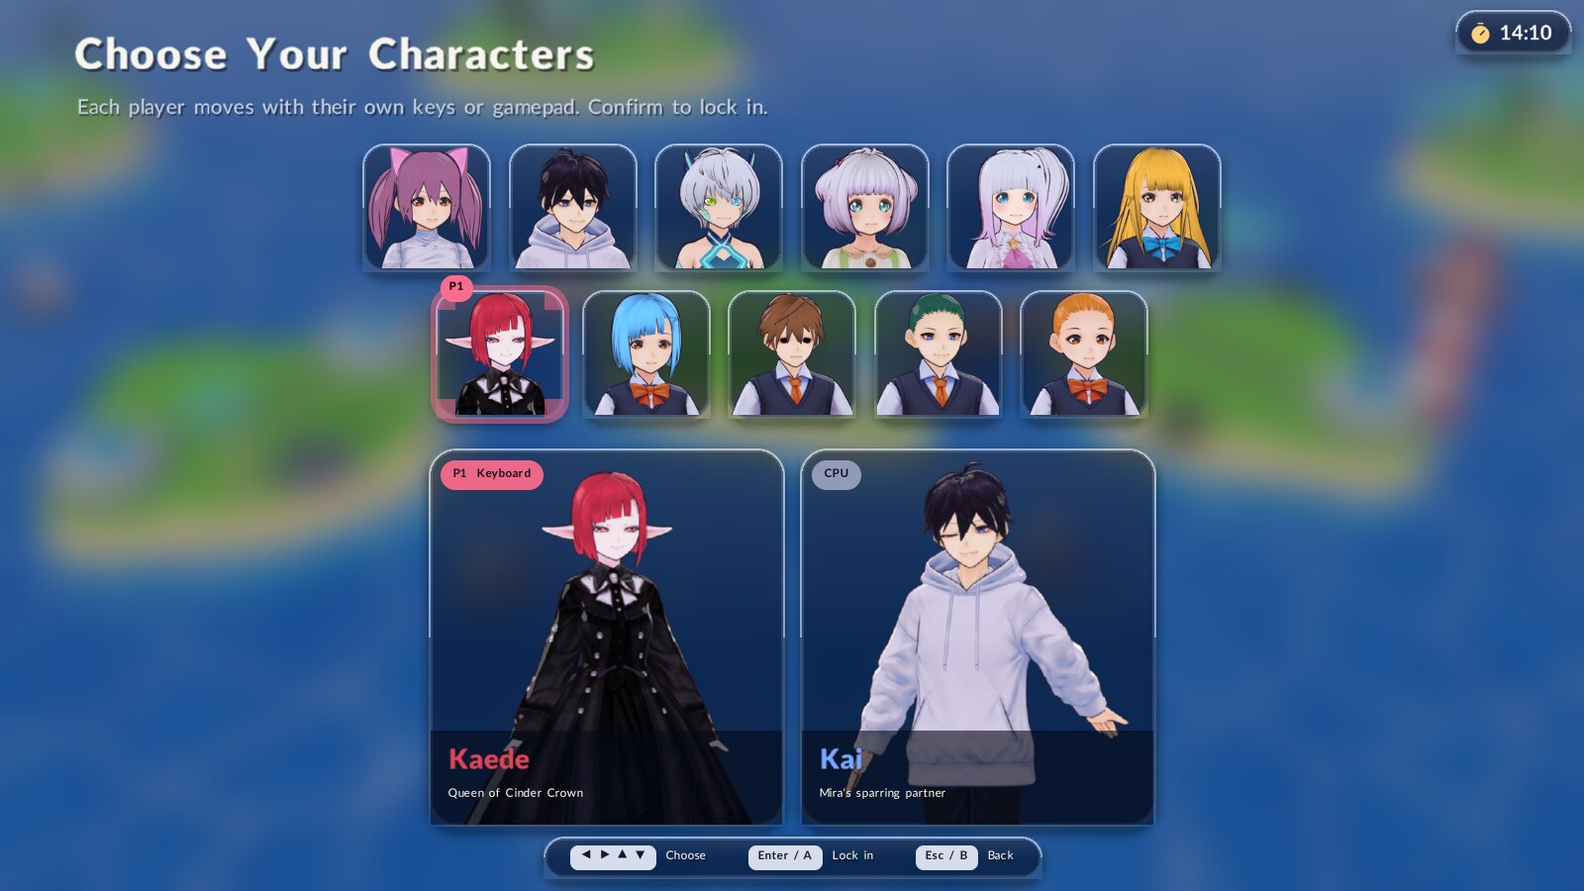
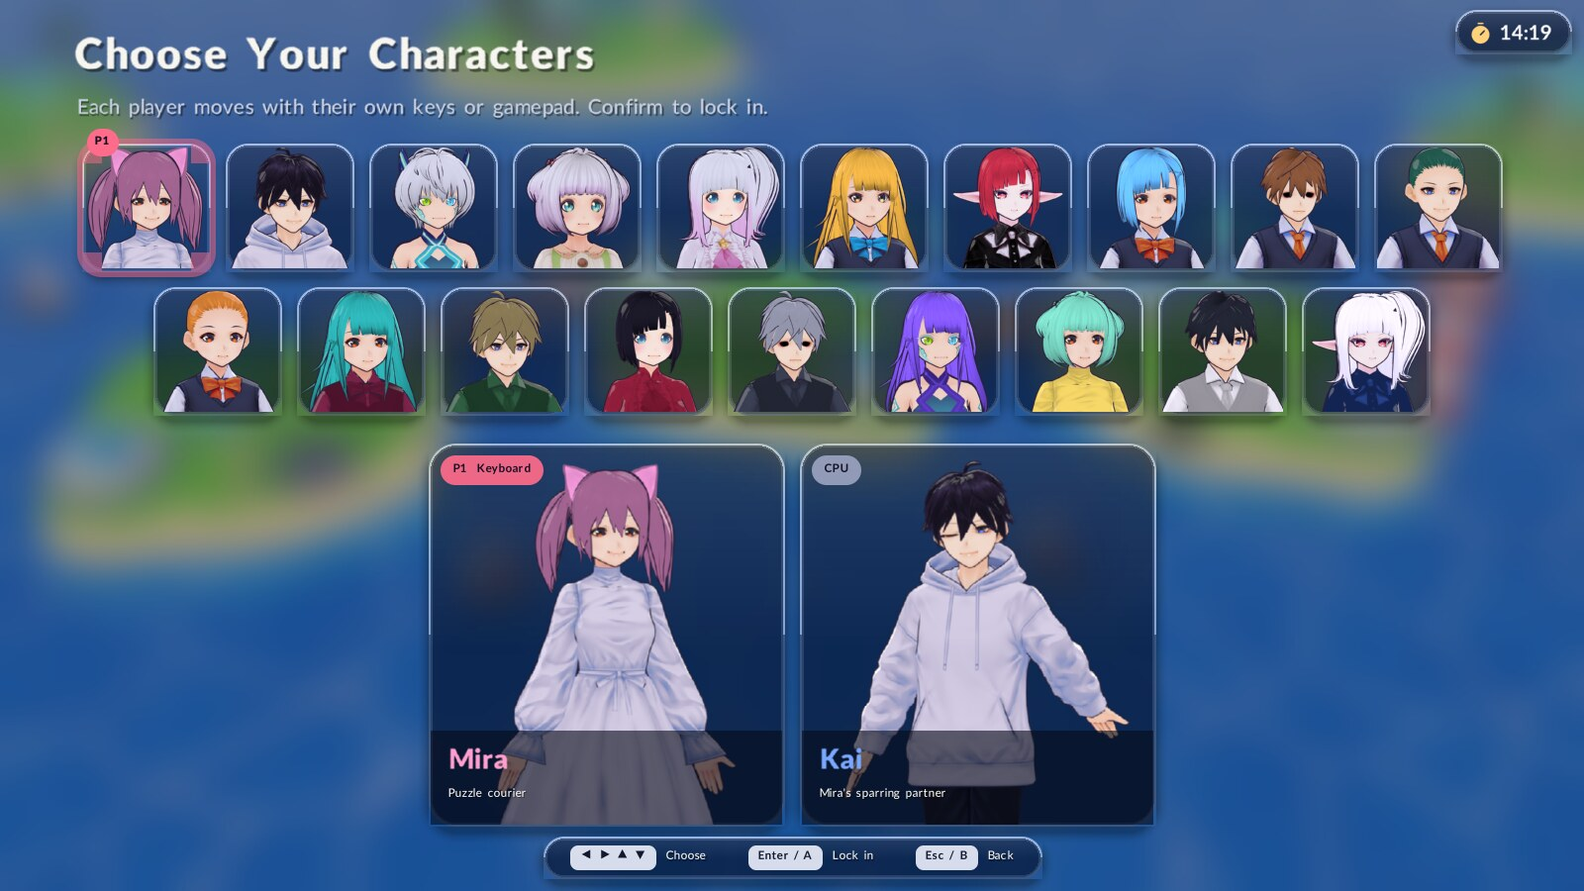
Wider cast, a death and a return, macOS runner
- Eight new characters built from the CC0 VRoid parts: hairstyles transplanted between
  models (the donor skeleton follows the new head), new hair and outfit colors
- Finale rewritten: Kai pushes Mira clear of the overflowing Commons and is swallowed
  (new scene w4_fall); everyone plays through the night until Sena's last push brings him back
- Character select lays a larger cast out in two rows; --scene ID opens a scene directly
- CI: macos-latest (macos-14 is not available on this account)

Changed region(s): [[0.0312, 0.1244, 0.9688, 0.9333]]

diff --git a/crates/purtris-client/src/cast.rs b/crates/purtris-client/src/cast.rs
@@ -23,6 +23,14 @@ pub const CAST: &[Member] = &[
     Member { id: "ren", name: "Ren", title: "Arcade regular", bio: "Builds shrines out of Panel garbage. Calm until the stack reaches row eleven.", style: 3, color: 0xFFC0_8A5C },
     Member { id: "taro", name: "Taro", title: "Arcade regular", bio: "Practises Capsule on the night train home. Has cleared level 20 twice, once awake.", style: 2, color: 0xFF4F_B48C },
     Member { id: "emi", name: "Emi", title: "Arcade regular", bio: "Chains first, asks questions later.", style: 1, color: 0xFFFF_A64C },
+    Member { id: "aoi", name: "Aoi", title: "Night nurse of Clinic Moon", bio: "Yuki's assistant. Counts sheep for the patients so they don't have to.", style: 2, color: 0xFF2F_B7A8 },
+    Member { id: "haru", name: "Haru", title: "Ferryman of Quad Reef", bio: "Rows the ferry between the reef's islands. Has never once tilted a block.", style: 0, color: 0xFFD8_C07A },
+    Member { id: "mei", name: "Mei", title: "Fortune teller of the Bazaar", bio: "Reads your future in the next queue. It is always an S-piece.", style: 3, color: 0xFFC0_3050 },
+    Member { id: "toma", name: "Toma", title: "Archivist of Cinder Crown", bio: "Keeps the records of every Commons Cup. Won't talk about the last one.", style: 2, color: 0xFFC8_D0E0 },
+    Member { id: "luna", name: "Luna", title: "Moon courier", bio: "Mira's rival in deliveries. Faster, rounder, and much louder about it.", style: 1, color: 0xFF8A_5CF0 },
+    Member { id: "kiko", name: "Kiko", title: "Beekeeper of Bloom Valley", bio: "Hana's best friend. Talks to bees, which is still more normal than talking to blobs.", style: 1, color: 0xFF7F_E0B8 },
+    Member { id: "jun", name: "Jun", title: "Arcade champion", bio: "Top of every leaderboard until Sora showed up. Hasn't slept since.", style: 0, color: 0xFF9A_A4B8 },
+    Member { id: "saki", name: "Saki", title: "Kaede's apprentice", bio: "Practises chains with the Queen every night. Secretly better at them.", style: 1, color: 0xFFB4_A8F0 },
 ];
 
 pub fn get(id: &str) -> &'static Member {
@@ -404,6 +412,7 @@ pub const SCENES: &[Scene] = &[
             l!("kaede", "sad", "One request. Don't beat me like a villain. Play me like she would have. Just once, I want that seat to answer."),
             l!("mira", "sad", "I don't know if I can. She was so fast. She hummed while she played. Off key, every single time."),
             l!("kai", "normal", "You can. You've played like her this whole trip. That's why I kept slowing you down. It scared me how much."),
+            l!("kai", "sad", "And if a board ever tops out on you again, I won't just stand there. I'll do what she did. ...Ignore me. Nerves."),
             l!("mira", "smile", "Okay. One delivery, from Sena, to Kaede. Handle with care. Contents fragile."),
             l!("kaede", "smug", "I am not fragile. I am a queen. I am... slightly fragile."),
             l!("mira", "delighted", "Hear that? The board's humming. Kaede, it hasn't hummed for you in years, has it?"),
@@ -421,13 +430,36 @@ pub const SCENES: &[Scene] = &[
             l!("mira", "sad", "I forgive you. And I'm sorry I yelled. I came to beat a villain and found someone who misses her as much as I do."),
             l!("kaede", "smile", "Then I forgive you for yelling. It was very loud. Queens are rarely yelled at. It was... refreshing."),
             l!("kaede", "normal", "I will reopen the Commons. On one condition: nobody plays alone on it. Not ever again."),
-            l!("kai", "normal", "Small problem. Every style on one board means every champion, and they're spread across five worlds."),
-            l!("nami", "smile", "Ahoy. I left the lighthouse lit, but I think my parents would rather I was here. Every style at once, they always said."),
+            l!("kai", "normal", "Small problem. \"Nobody alone\" means every champion, and they live in four other worlds. One of them charges for talking."),
+            l!("rin", "smug", "Reopening fee waived! Today only! But you mentioned me, Kai, so that's one coin."),
+            l!("nami", "smile", "Ahoy. I left the lighthouse lit, but my parents would want me here. Every style at once, they always said."),
             l!("hana", "delighted", "I brought everyone. Gerald, Sproutlet, Mrs. Puddle, and a new one. I named him Kaede. He's very shy."),
+            l!("kaede", "shocked", "He has my exact frown. Blobs don't have frowns. How does he have my frown?"),
             l!("yuki", "sleepy", "I left my patients a night light. Diagnosis: you'll need a doctor. You always need a doctor."),
-            l!("rin", "smug", "Reopening fee waived! Today only! Don't tell anyone, it's terrible for business."),
-            l!("kaede", "shocked", "You all came? For me? I... I don't have enough chairs. I've only had one spare chair for seven years."),
-            l!("mira", "delighted", "Then we bring more chairs. Kai, write it on the delivery slip: one Commons, five worlds, zero empty seats."),
+            l!("kaede", "shocked", "You all came? For me? I don't have enough chairs. I've only had one spare chair for seven years."),
+            l!("mira", "delighted", "Then we bring more chairs. Kai, write it on the slip: one Commons, five worlds, zero empty seats."),
+            l!("kai", "smile", "Written. I also wrote \"snacks: Kai\". Morale is my department. Nobody voted. I just took it."),
+        ],
+    },
+    Scene {
+        id: "w4_fall",
+        world: 4,
+        right: &["kaede"],
+        lines: &[
+            l!("mira", "delighted", "The Commons is open! Blocks, blobs, panels, capsules, all on one board. Listen to it sing, Kai!"),
+            l!("kai", "smile", "It's loud. It's very loud. Okay, it's great. Don't tell anyone I said great."),
+            l!("emi", "delighted", "I chained first! I don't know what I chained! Is it allowed to chain the whole floor?"),
+            l!("hana", "normal", "Gerald? Why are you shaking? ...Everyone. The old gray rows at the bottom. Nobody ever cleared them."),
+            l!("yuki", "shocked", "Height: rising. All our attacks are landing at once, on top of seven years of gray. The board is overflowing."),
+            l!("kaede", "shocked", "It's the final. It's the final all over again. Everyone off the board, NOW!"),
+            l!("mira", "shocked", "Kai, I'm slipping! The blocks keep pushing me up, I can't stop, I'm at the top line!"),
+            l!("kai", "normal", "Got you. Same move as Sena. I watched her do it, so I've had seven years to practise. Off you go, courier."),
+            l!("mira", "shocked", "Kai, NO! Grab my hand! KAI!"),
+            l!("kai", "smile", "Look after her, Kaede. And don't eat that marshmallow I gave you. It's the worst one. I saved it for royalty."),
+            l!("nami", "sad", "...The board stopped. There's a new gray row at the bottom. It has a streak of blue in it. Hoodie blue."),
+            l!("yuki", "sad", "..."),
+            l!("mira", "sad", "Kai? You can come out now. Kai. That's not funny. You're always funny. Kai."),
+            l!("kaede", "sad", "Not again."),
         ],
     },
     Scene {
@@ -435,20 +467,22 @@ pub const SCENES: &[Scene] = &[
         world: 0,
         right: &["kaede", "nami", "hana", "yuki", "rin"],
         lines: &[
-            l!("mira", "delighted", "Blocks falling, blobs popping, panels swapping, capsules everywhere. Every style on one board. Listen. It's singing again."),
-            l!("nami", "smile", "Rows clearing in perfect fours. You could say we're... shore to win. No. Strike that from the logbook."),
-            l!("hana", "delighted", "Gerald chained into Mrs. Puddle and they both popped. They're so proud. I'm naming the next one Commons Junior."),
-            l!("yuki", "normal", "Vitals stable. Heart rates elevated. Diagnosis: fun. No known cure. Recommend more."),
-            l!("rin", "smug", "Admission's free. Snacks are free. Hugs are... fine, also free. I'm terrible at this now."),
-            l!("kaede", "smug", "Observe, everyone. A three-step chain. I practised on a real board, with real people. ...It was a two-step."),
-            l!("kai", "delighted", "Wait. This snack is good. Actually good. Toasted rice cake with honey. Who made this?"),
-            l!("kaede", "smile", "I did. Seven years of lonely nights. One can only practise chains so long before one learns to bake."),
-            l!("mira", "shocked", "The gray rows at the bottom. They're clearing, all of them at once. And the box is warm. Kai, the box is warm."),
-            l!("mira", "shocked", "\"I was never trapped. I held the board up so it couldn't swallow anyone. Now it's light. I can rest. Keep delivering, Mira.\" (Her voice.)"),
-            l!("kaede", "sad", "She was holding it up, all this time. ...Thank you, Sena. We'll all hold it from here."),
-            l!("mira", "sad", "...Delivery received, Sena. Put your feet up. We've got it."),
-            l!("kai", "smile", "I saved you a rice cake. Well. Half. Okay, a crumb. First good snack in seven years, Mira. I panicked."),
-            l!("mira", "delighted", "Next delivery: one Commons Cup, every world invited, plus a crate of rice cakes for Kai. Signed, sealed, stacked!"),
+            l!("kaede", "angry", "Nobody goes home. Seven years ago I walked off this board and left someone under it. Not tonight. Not one of us."),
+            l!("nami", "normal", "Then the light stays on. Lighthouse rules: it burns until everyone is home. Everyone. Follow the beam and play."),
+            l!("hana", "normal", "The bottom row is Pebble. Above him, Mr. Sunday. Then Lantern, then Buttons. The blue one is Kai. We dig to Kai."),
+            l!("yuki", "normal", "Gray rows remaining: two hundred and six. I'm counting every one. Prognosis: we don't stop."),
+            l!("rin", "sad", "Take my charms, my stones, my coins, my whole stall. Send all of it down. No charge. Just bring him up."),
+            l!("kaede", "shocked", "My hands aren't stopping. One, two, three, four, five! A five-step chain! On a real board! Somebody write that down!"),
+            l!("yuki", "sleepy", "Written. It's almost dawn. Rows remaining: one. Hoodie blue."),
+            l!("mira", "sad", "You promised Sena you'd look after me, Kai. Nobody said I couldn't look after you back. Come on. One more row."),
+            l!("mira", "shocked", "It's clearing. The blue row is clearing. And the box is warm, Kaede. The box is warm."),
+            l!("mira", "shocked", "\"I held this board up for seven years, Mira. I've got one last push. I'm sending him back. Now I can rest.\" (The box. Her voice.)"),
+            l!("kai", "sleepy", "...Why is everyone staring at me? Did I lose? I feel like I lost. Also, is there food? I'm starving."),
+            l!("mira", "delighted", "KAI! You're back! You absolute idiot, you're BACK! Never do that again! Also, hi!"),
+            l!("mira", "sad", "...Thank you, Sena. Delivery received. Put your feet up. We'll hold it from here, all of us."),
+            l!("kaede", "smile", "Rice cake with honey. I learned to bake on lonely nights. Also, I ate your marshmallow. You were right. Worst one."),
+            l!("kai", "delighted", "This is good. Actually good. Seven years of awful snacks, and all it took was getting swallowed by a board."),
+            l!("mira", "delighted", "Next delivery: one Commons Cup, every world invited, a crate of rice cakes, and Kai in the stands. In a helmet. Signed, sealed, stacked!"),
         ],
     },
 ];

diff --git a/tools/blender/cast3d.py b/tools/blender/cast3d.py
@@ -157,6 +157,42 @@ def relax_hands(arm, bones, fist=0.0):
                 rotate_bone_axis(arm, bones[hb], Vector((0, 0, 1)), ang if side == "left" else -ang)
 
 
+def is_hair(o):
+    # VRoid exports the hairstyle as its own "Hair..." object (body materials can mention hair too)
+    return o.type == "MESH" and o.name.lower().startswith("hair")
+
+
+def transplant_hair(arm, bones, meshes, donor):
+    """Give a character another model's hairstyle: delete their own hair meshes, import the
+    donor, keep only its hair, line its head up with ours, and make the donor's skeleton follow
+    our head bone (Child Of), so the hair moves with every pose."""
+    for o in list(meshes):
+        if is_hair(o):
+            meshes.remove(o)
+            bpy.data.objects.remove(o, do_unlink=True)
+    arm_b, meshes_b, vrm_b, gltf_b = import_vrm(os.path.join(VRM_DIR, donor + ".vrm"))
+    bones_b = bone_map(vrm_b, gltf_b)
+    keep = []
+    for o in meshes_b:
+        if is_hair(o):
+            keep.append(o)
+        else:
+            bpy.data.objects.remove(o, do_unlink=True)
+    bpy.context.view_layer.update()
+    ha = arm.matrix_world @ arm.pose.bones[bones["head"]].head
+    hb = arm_b.matrix_world @ arm_b.pose.bones[bones_b["head"]].head
+    arm_b.location = arm_b.location + (ha - hb)
+    bpy.context.view_layer.update()
+    con = arm_b.constraints.new("CHILD_OF")
+    con.target = arm
+    con.subtarget = bones["head"]
+    pb = arm.pose.bones[bones["head"]]
+    con.inverse_matrix = (arm.matrix_world @ pb.matrix).inverted()
+    bpy.context.view_layer.update()
+    meshes.extend(keep)
+    return keep
+
+
 def posed_bounds(meshes):
     """World bounds of the meshes as deformed by the current pose (not the rest pose)."""
     dg = bpy.context.evaluated_depsgraph_get()
@@ -410,6 +446,7 @@ def preview():
 
 # ------------------------------------------------------------------ the cast
 # id, source model, tints by material keyword, role (only for reading this table)
+# Each entry: id, body model, tints by material keyword, role, and optionally a hair donor model.
 HUMANS = [
     ("mira", "hairsample_female", {"HAIR": 0xFFA0CF}, "host and hero"),
     ("kai", "hairsample_male", {}, "Mira's friend and sparring rival"),
@@ -422,6 +459,15 @@ HUMANS = [
     ("ren", "sakurada_fumiriya", {"HAIR": 0x8A5634}, "versus regular"),
     ("taro", "base_male", {"HAIR": 0x2E6E58}, "versus regular"),
     ("emi", "base_female", {"HAIR": 0xFF9A3C}, "versus regular"),
+    # new cast members built from the same CC0 parts: hair swaps and recolors
+    ("aoi", "base_female", {"HAIR": 0x2FB7A8, "CLOTH": 0x7A2340}, "versus regular", "sendagaya_shino"),
+    ("haru", "base_male", {"HAIR": 0xD8C07A, "CLOTH": 0x2F5D3A}, "versus regular", "hairsample_male"),
+    ("mei", "avatarsample_g", {"HAIR": 0x1C1A24, "CLOTH": 0x8E1E34}, "versus regular", "avatarsample_d_0"),
+    ("toma", "sakurada_fumiriya", {"HAIR": 0xE8ECF4, "CLOTH": 0x3A3F4A}, "versus regular", "hairsample_male"),
+    ("luna", "avatarsample_f", {"HAIR": 0x8A5CF0, "CLOTH": 0x5B3BB0}, "versus regular", "sendagaya_shino"),
+    ("kiko", "hairsample_female", {"HAIR": 0x7FE0B8, "CLOTH": 0xF2D45C}, "versus regular", "avatarsample_e"),
+    ("jun", "base_male", {"HAIR": 0x23262E, "CLOTH": 0xE6E2D8}, "versus regular", "sakurada_fumiriya"),
+    ("saki", "avatarsample_d_darkness", {"HAIR": 0xF4EEFF, "CLOTH": 0x26407A}, "versus regular", "avatarsample_g"),
 ]
 # The creatures were tried and left out of the game (the anime cast reads better together);
 # render them with `cast3d.py <repo> creatures` if they are wanted again.
@@ -463,7 +509,9 @@ def reset_pose(arm):
 
 def cast():
     os.makedirs(OUT, exist_ok=True)
-    for cid, src, tints, _role in HUMANS:
+    for entry in HUMANS:
+        cid, src, tints, _role = entry[:4]
+        donor = entry[4] if len(entry) > 4 else None
         if ONLY and cid not in ONLY:
             continue
         sc = T.eevee_scene(448, 960, transparent=True, samples=48)
@@ -473,6 +521,8 @@ def cast():
         lights(sc)
         arm, meshes, vrm, gltf = import_vrm(os.path.join(VRM_DIR, src + ".vrm"))
         bones = bone_map(vrm, gltf)
+        if donor:
+            transplant_hair(arm, bones, meshes, donor)
         toon_meshes(meshes, tints=tints)
         outline(meshes)
         # one framing for all eight poses (so sizes match between expressions), measured on
@@ -536,8 +586,8 @@ def cast():
             render(sc, os.path.join(OUT, "%s_%s.png" % (cid, ex)))
     # the roster the game reads
     with open(os.path.join(OUT, "cast.txt"), "w") as f:
-        for cid, src, _t, role in HUMANS:
-            f.write("human %s %s\n" % (cid, src))
+        for entry in HUMANS:
+            f.write("human %s %s\n" % (entry[0], entry[1]))
         for cid, name in CREATURES:
             f.write("creature %s %s\n" % (cid, name))
 

diff --git a/crates/purtris-client/src/content.rs b/crates/purtris-client/src/content.rs
@@ -131,7 +131,7 @@ pub const WORLDS: [World; 5] = [
             Node { name: "Mixed Pair", line: "A capsule medic fights beside you against blocks and blobs. Yuki's orders: \"Don't top out. Paperwork.\"", level: team(K, &[QuadPpt, ChainTsu], None), extra: Obj::TeamTwoAlive },
             Node { name: "Three by Three", line: "Six boards at once, so watch who is sending at you. Kaede sends at everyone. Mostly at herself.", level: team(&[ChainTsu, PanelPdp], &[QuadPpt, CapsuleVs, ChainTsu], None), extra: Obj::TeamTwoAlive },
             Node { name: "Free For All", line: "Three players, no teams, last one standing wins. After today, nobody has to stand alone.", level: Level { mode: Mode::Versus, human: None, allies: NONE, foes: &[QuadPpt, PanelPdp], ffa: true, boss: false }, extra: Obj::SendAtLeast(8, 16) },
-            Node { name: "Grand Voyage", line: "The volcano is waking. Everything you've learned, all at once. One last delivery. Let's finish this together!", level: Level { mode: Mode::Versus, human: None, allies: &[PanelPdp, CapsuleVs], foes: &[QuadPpt, ChainTsu, PanelPdp], ffa: false, boss: true }, extra: Obj::TeamTwoAlive },
+            Node { name: "Grand Voyage", line: "The volcano is waking. Everything you've learned, all at once. Old boards remember. Let's finish this together!", level: Level { mode: Mode::Versus, human: None, allies: &[PanelPdp, CapsuleVs], foes: &[QuadPpt, ChainTsu, PanelPdp], ffa: false, boss: true }, extra: Obj::TeamTwoAlive },
         ],
     },
 ];

diff --git a/crates/purtris-client/src/app.rs b/crates/purtris-client/src/app.rs
@@ -1193,7 +1193,13 @@ impl App {
         const CLEAR: [&str; 5] = ["w0_clear", "w1_clear", "w2_clear", "w3_clear", "w4_clear"];
         if let Origin::Story { world, node: 5, .. } = origin {
             if won && !self.scene_seen(CLEAR[(*world).min(4)]) {
-                let next = if *world >= 4 && !self.scene_seen("epilogue") { self.play_scene("epilogue", back) } else { back };
+                // the finale: the Commons reopen, then the fall, then everyone brings Kai back
+                let next = if *world >= 4 && !self.scene_seen("epilogue") {
+                    let ep = self.play_scene("epilogue", back);
+                    self.play_scene("w4_fall", ep)
+                } else {
+                    back
+                };
                 return self.play_scene(CLEAR[(*world).min(4)], next);
             }
         }

diff --git a/crates/purtris-client/src/story_ui.rs b/crates/purtris-client/src/story_ui.rs
@@ -144,9 +144,10 @@ impl App {
         self.bg(0.0);
         ui::title(&mut self.cv, "Choose your characters", "Each player moves with their own keys or gamepad. Confirm to lock in.", &l);
         let n = CAST.len();
-        let cols = 6usize;
-        let tile = 104;
-        let gap = 14;
+        // two rows whatever the cast size: wider rows of smaller tiles for a big cast
+        let cols = n.div_ceil(2).max(6);
+        let tile = if cols > 6 { (1180 / cols as i32 - 12).min(104) } else { 104 };
+        let gap = if cols > 6 { 12 } else { 14 };
         let grid_w = cols as i32 * tile + (cols as i32 - 1) * gap;
         let gx = 640 - grid_w / 2;
         let gy = 116;

diff --git a/crates/purtris-client/src/main.rs b/crates/purtris-client/src/main.rs
@@ -94,6 +94,12 @@ fn main() {
         }
     };
     app.input.attach(&mut screen.win);
+    // --scene ID opens straight on a story scene (writers and testers)
+    if args.get(1).map(|a| a == "--scene").unwrap_or(false) {
+        if let Some(sc) = args.get(2).and_then(|id| cast::SCENES.iter().find(|s| s.id == id.as_str())) {
+            app.screen = app::Screen::Scene { id: sc.id, line: 0, t: 0.0, then: Box::new(app::Screen::Title) };
+        }
+    }
     let mut present = Presenter::default();
     let mut last = Instant::now();
     let mut next = Instant::now();

diff --git a/README.md b/README.md
@@ -9,7 +9,7 @@
   <img alt="Engine: Rust, written from scratch" src="https://img.shields.io/badge/engine-Rust%2C%20from%20scratch-f2434f">
   <img alt="Styles: 4" src="https://img.shields.io/badge/styles-Quad%20%C2%B7%20Chain%20%C2%B7%20Capsule%20%C2%B7%20Panel-5cd3ff">
   <img alt="Players: up to 6" src="https://img.shields.io/badge/players-up%20to%206-62c454">
-  <img alt="Cast: 11 characters" src="https://img.shields.io/badge/cast-11%20characters-ff9fcf">
+  <img alt="Cast: 19 characters" src="https://img.shields.io/badge/cast-19%20characters-ff9fcf">
   <a href="LICENSE"><img alt="License: GPL-3.0" src="https://img.shields.io/badge/license-GPL--3.0-a9a6ff"></a>
 </p>
 
@@ -43,8 +43,9 @@
 - **A story with a heart:** Mira, a puzzle courier, and her friend Kai cross five worlds to reopen the
   Commons, where every style used to play together. It's funny and cute, with a mystery underneath: why
   Queen Kaede split the worlds, what the gray garbage blocks really are, and what Mira carries in her
-  puzzle box. Twenty-two visual-novel scenes play between the story's thirty matches.
-- **An anime cast, rendered in 3D:** eleven characters, toon-shaded with an ink outline in Blender, eight
+  puzzle box. Twenty-three visual-novel scenes play between the story's thirty matches, and the finale costs
+  someone everything before everyone brings them back.
+- **An anime cast, rendered in 3D:** nineteen characters, toon-shaded with an ink outline in Blender, eight
   expressions each, with rigged hands. They stand beside the boards and react to the match (always in the
   story, optional in versus), cheer on the results screen, and pick up the dialogue in every scene.
 - **Character select:** each player moves their own cursor with their own keyboard half or gamepad.
@@ -167,7 +168,8 @@ renders every character in eight expressions (full body and portrait) into `asse
 All free licenses; the details are in each folder's license file.
 
 - **Characters:** the VRoid Studio sample avatars by the VRoid Project / pixiv Inc., released under CC0
-  (`third_party/vroid_cc0/LICENSE.txt`), posed, recolored and toon-rendered for this game. Names, roles and
+  (`third_party/vroid_cc0/LICENSE.txt`), posed, recolored and toon-rendered for this game; eight more cast
+  members are built from the same CC0 parts (hairstyles moved between models, new colors). Names, roles and
   story are this game's own.
 - **3D worlds:** Quaternius Stylized Nature MegaKit and Medieval Village MegaKit, Kenney Nature Kit, Poly Haven
   (all CC0).

diff --git a/docs/story/BIBLE.md b/docs/story/BIBLE.md
@@ -139,3 +139,17 @@ The user wants the story to feel like it belongs to the great puzzle-game tradit
 - Deadpan medicine against invading germs (Clinic Moon's tone).
 - Cute mascots and slapstick between serious beats: the comedy and the sincerity share a scene.
 Keep everything original: invent new terms, places and jokes. No references to real games, ever.
+
+## Revision: someone dies and comes back (the finale)
+The user wants a death and a return. It is **Kai**, and it mirrors Sena:
+- `w4_clear` (after beating Kaede): forgiveness, Kaede agrees, the Commons reopen. Everyone arrives.
+- NEW `w4_fall` (plays right after `w4_clear`): the first match on the reopened Commons starts joyful, then the
+  board overflows again (seven years of gray rows were never cleared). Mira slips toward the top line; Kai
+  pushes her clear, exactly as Sena did, and is swallowed. His last line is a joke about his snacks. He is
+  gone: a new gray row with a hoodie-blue streak. Silence. Kaede breaks: "Not again." This must land hard.
+- `epilogue` becomes the return: nobody leaves. Every champion takes a side of the Commons and they play
+  together, all styles, all night, clearing gray rows one by one (Nami's light guiding, Hana naming the rows,
+  Yuki keeping count, Rin giving everything away, Kaede finally chaining). When the hoodie-blue row clears,
+  Sena's voice speaks once through the box (speaker `mira`, expression `shocked`, quoted, short parenthetical):
+  she held the board up for seven years and has one last push in her; she sends Kai back and can finally
+  rest. Kai comes back, blinking, alive, hungry. Bittersweet joy. Last line funny and warm.
